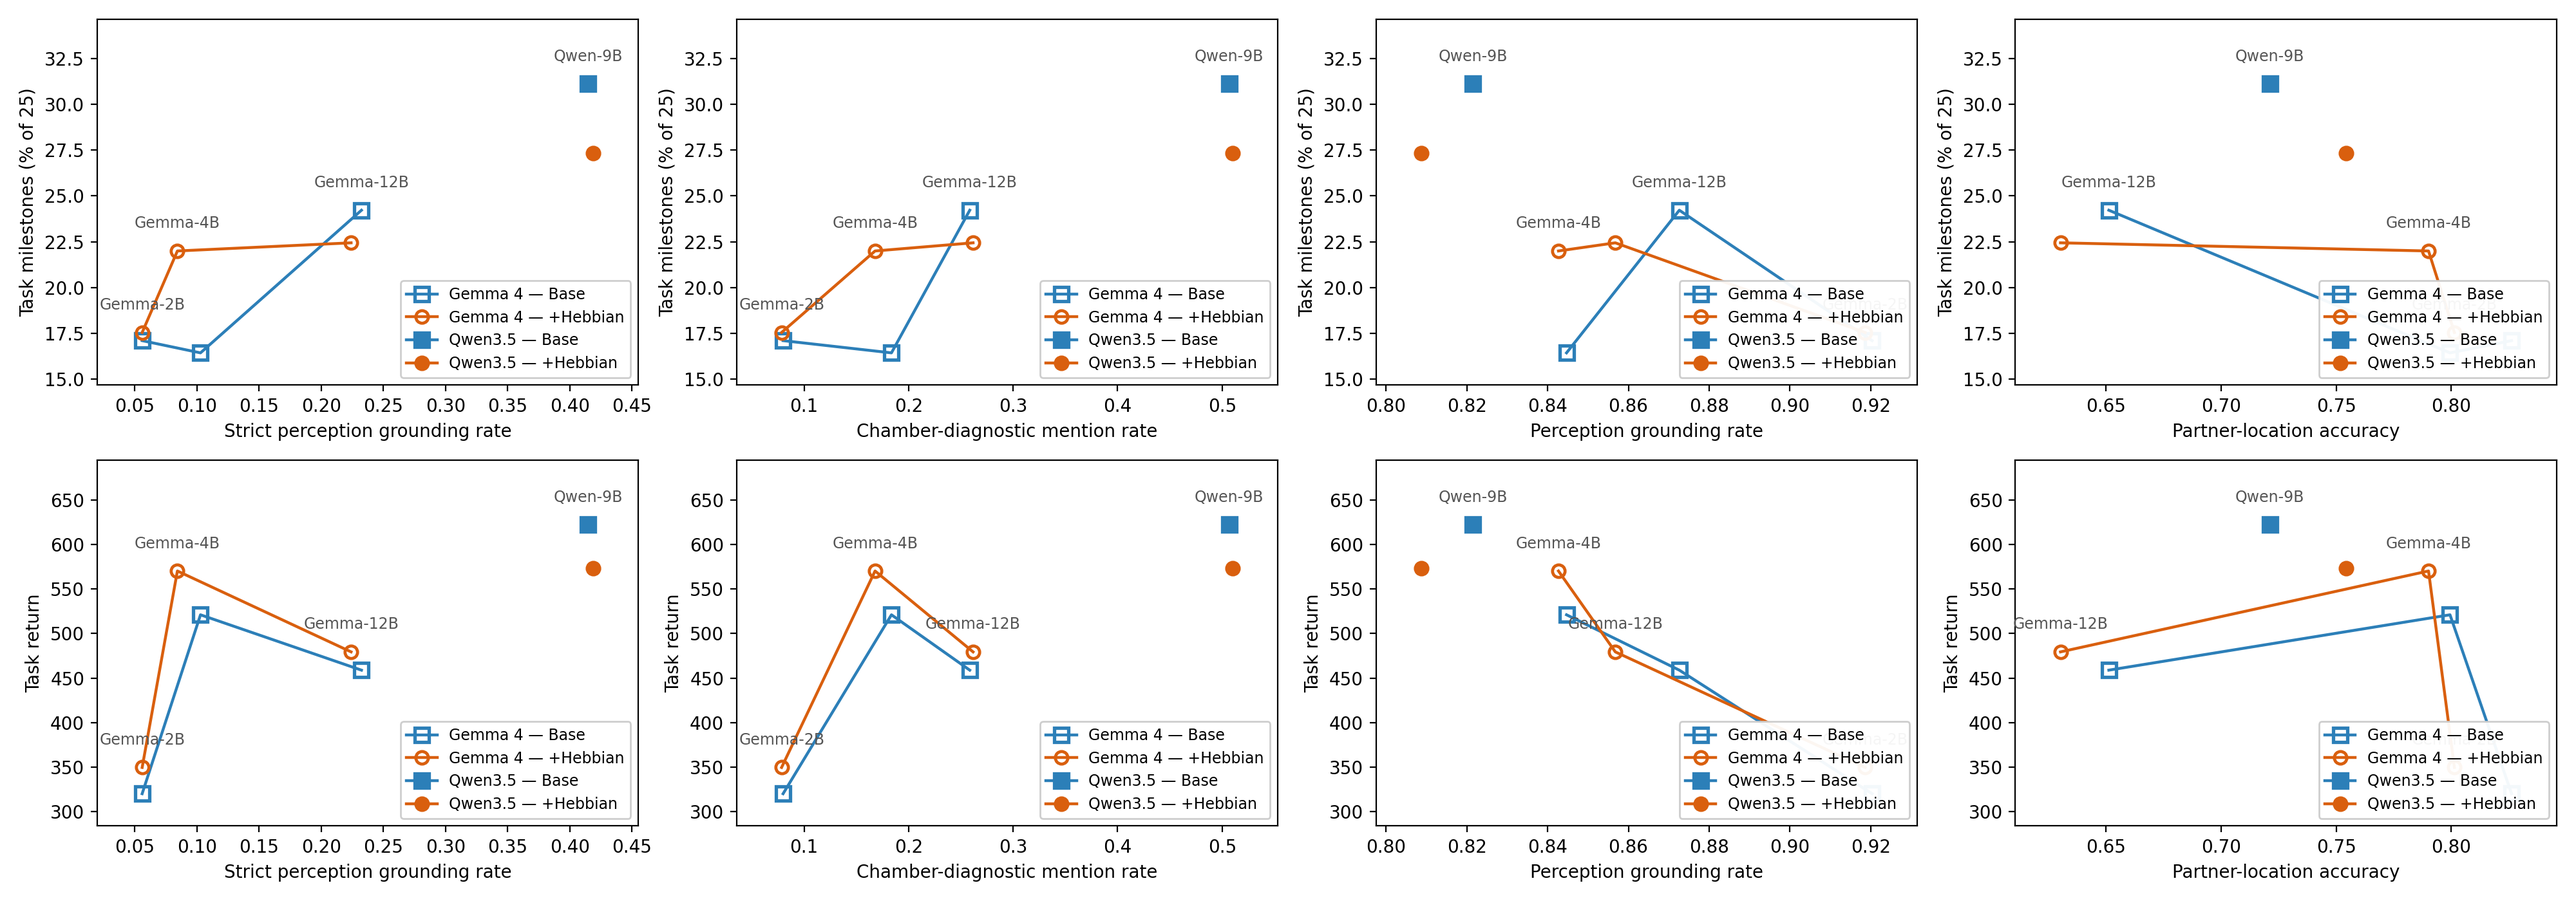
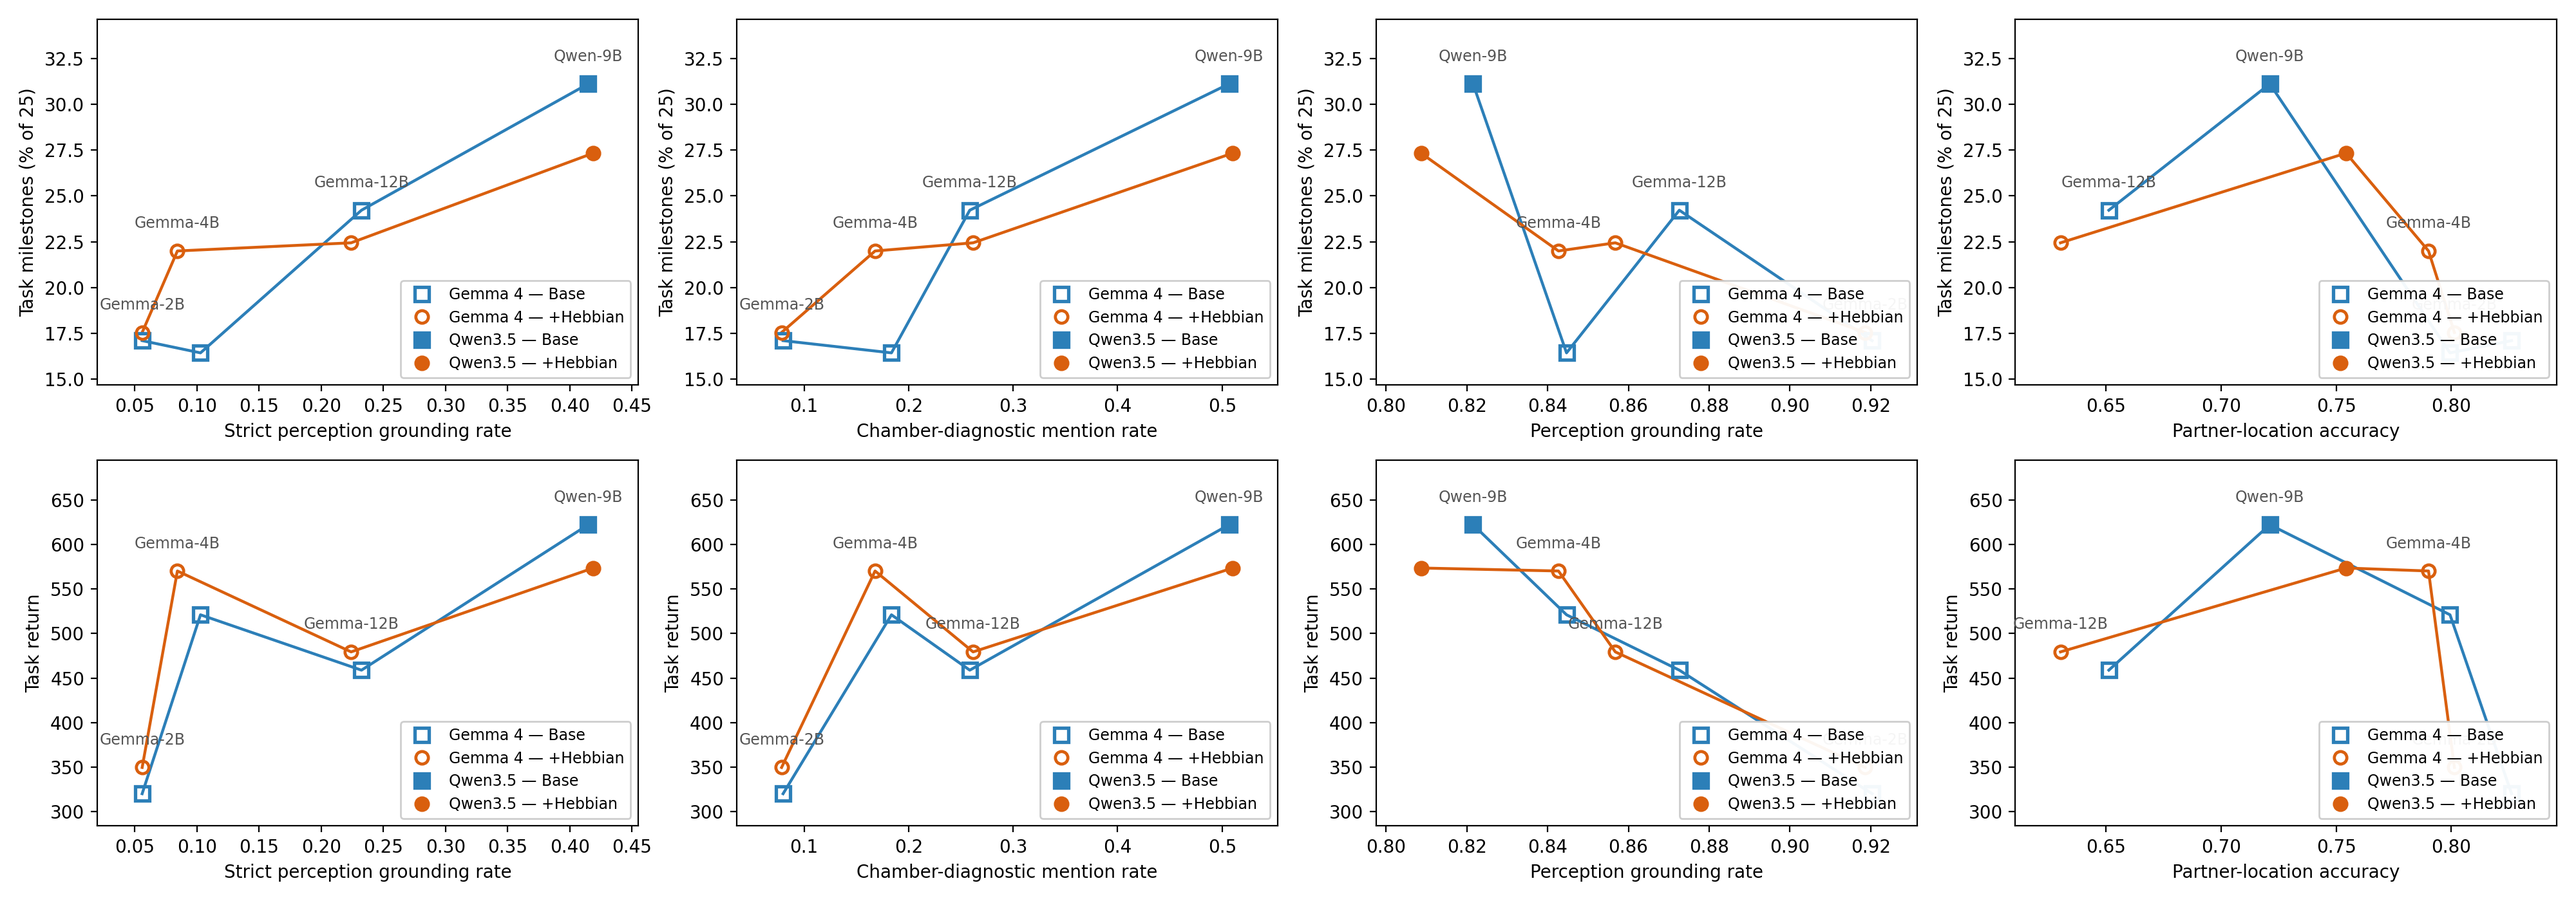
Perception-x pareto: --join-families draws one line per arm through Qwen-9B
On a measured-capability x-axis the joined line is the legitimate
cross-model correlation ('models that ground perception better complete
more milestones'), so the flag exists there and hard-refuses the compute
axis, where joining families would fake a scaling law across architectures.
Family identity stays on the markers (open Gemma, filled Qwen). The story
figure is milestones vs strict grounding with all four models per arm.

diff --git a/scripts/make_pareto_grid.py b/scripts/make_pareto_grid.py
@@ -280,13 +280,37 @@ def series_points(data, family, arm, y, x, perception):
 
 
 def draw_panel(ax, data, families, y, x, perception, label_points=True,
-               errorbars=False, normalize=False, legend_loc="lower right"):
+               errorbars=False, normalize=False, legend_loc="lower right",
+               join_families=False):
     """One panel in the CoDe Fig. 10 look. Returns the number of series drawn.
 
     normalize: divide every series by the BASE arm's value at its smallest-x
     point (the cheapest configuration), so that point reads 1.0 -- the
     reference's "(Normalized) Reward" convention. Per family.
+
+    join_families: ONE connecting line per arm through the points of every
+    family, sorted by x. Only legitimate on a MEASURED-capability x-axis
+    (strict grounding etc.), where the claim is the cross-model correlation
+    "models that perceive better perform better"; on the compute axis a
+    joined line would fake a scaling law across architectures, so the flag is
+    refused there. Family identity stays on the markers (open Gemma / filled
+    Qwen). Ignores normalize.
     """
+    join = join_families and len(families) > 1
+    if join and x == "flops":
+        raise SystemExit("--join-families is not valid on the compute axis: "
+                         "across families, size is confounded with "
+                         "architecture; use a perception x-axis")
+    if join:
+        for arm in ("base", "hebbian"):
+            allp = []
+            for family in families:
+                allp += series_points(data, family, arm, y, x, perception)
+            if len(allp) > 1:
+                allp.sort(key=lambda p: p[0])
+                ax.plot([p[0] for p in allp], [p[1] for p in allp],
+                        ls="-", lw=1.6, color=ARM_STYLE[arm]["color"],
+                        zorder=2)
     n = 0
     tops = {}
     all_y = []
@@ -314,7 +338,8 @@ def draw_panel(ax, data, families, y, x, perception, label_points=True,
                 all_y += [v + e for v, e in zip(ys, es)]
                 all_y += [v - e for v, e in zip(ys, es)]
             all_y += ys
-            ax.plot(xs, ys, ls="-", lw=1.6, color=st["color"],
+            ax.plot(xs, ys, ls="none" if join else "-", lw=1.6,
+                    color=st["color"],
                     marker=st["marker"], ms=st["ms"],
                     mfc="none" if open_marker else st["color"],
                     mec=st["color"], mew=st["mew"],
@@ -381,6 +406,11 @@ def main():
                          "e2b,e4b,12b,qwen9b to add one Qwen point to the "
                          "Gemma curve".format(",".join(SIZES)))
     ap.add_argument("--no-point-labels", action="store_true")
+    ap.add_argument("--join-families", action="store_true",
+                    help="one line per arm through all families' points, "
+                         "sorted by x — perception axes only (refused on the "
+                         "compute axis, where it would fake a cross-"
+                         "architecture scaling law)")
     ap.add_argument("--errorbars", action="store_true",
                     help="draw +-1 sd over pooled episodes (off by default to "
                          "match the reference figure; the table carries the sd)")
@@ -482,7 +512,8 @@ def main():
                 n = draw_panel(ax, data, FAMILIES[fam], y, x, perception,
                                label_points=not args.no_point_labels,
                                errorbars=args.errorbars,
-                               normalize=args.normalize)
+                               normalize=args.normalize,
+                               join_families=args.join_families)
                 if n == 0:
                     plt.close(fig)
                     continue
@@ -502,7 +533,8 @@ def main():
                     if draw_panel(ax, data, FAMILIES[fam], y, x, perception,
                                   label_points=not args.no_point_labels,
                                   errorbars=args.errorbars,
-                                  normalize=args.normalize):
+                                  normalize=args.normalize,
+                                  join_families=args.join_families):
                         any_drawn = True
             if any_drawn:
                 fig.tight_layout()

diff --git a/.claude/skills/pareto-plots/SKILL.md b/.claude/skills/pareto-plots/SKILL.md
@@ -103,6 +103,14 @@ Verified 2026-08-28: the pareto table reproduces
   "perception axes dropped from the paper" verdict applied to THOSE; the
   strict metric rehabilitates the axis. Return as y stays non-monotone on any
   perception axis (it peaks at 4B) — use milestones.
+- `--join-families`: ONE line per arm through every family's points —
+  perception axes only (the flag hard-refuses the compute axis, where a
+  joined line would fake a cross-architecture scaling law). On a measured-
+  capability x the joined line is the legitimate cross-model correlation.
+  THE story figure: grid_perception_x_qwen/
+  pareto_both_milestone_pct_vs_grounding_strict.png — milestones vs strict
+  grounding, Gemma-2B/4B/12B + Qwen-9B on one line per arm, family kept
+  visible via open (Gemma) vs filled (Qwen) markers.
 - With-Qwen set (labels "Name-<N>B", e.g. Gemma-4B / Qwen-9B via SHORT_LABEL):
   `--out-dir .../grid_with_qwen --families both --sizes e2b,e4b,12b,qwen9b
   --ys milestone_pct,reward --paper` (needs medium_runs root). `--sizes`
